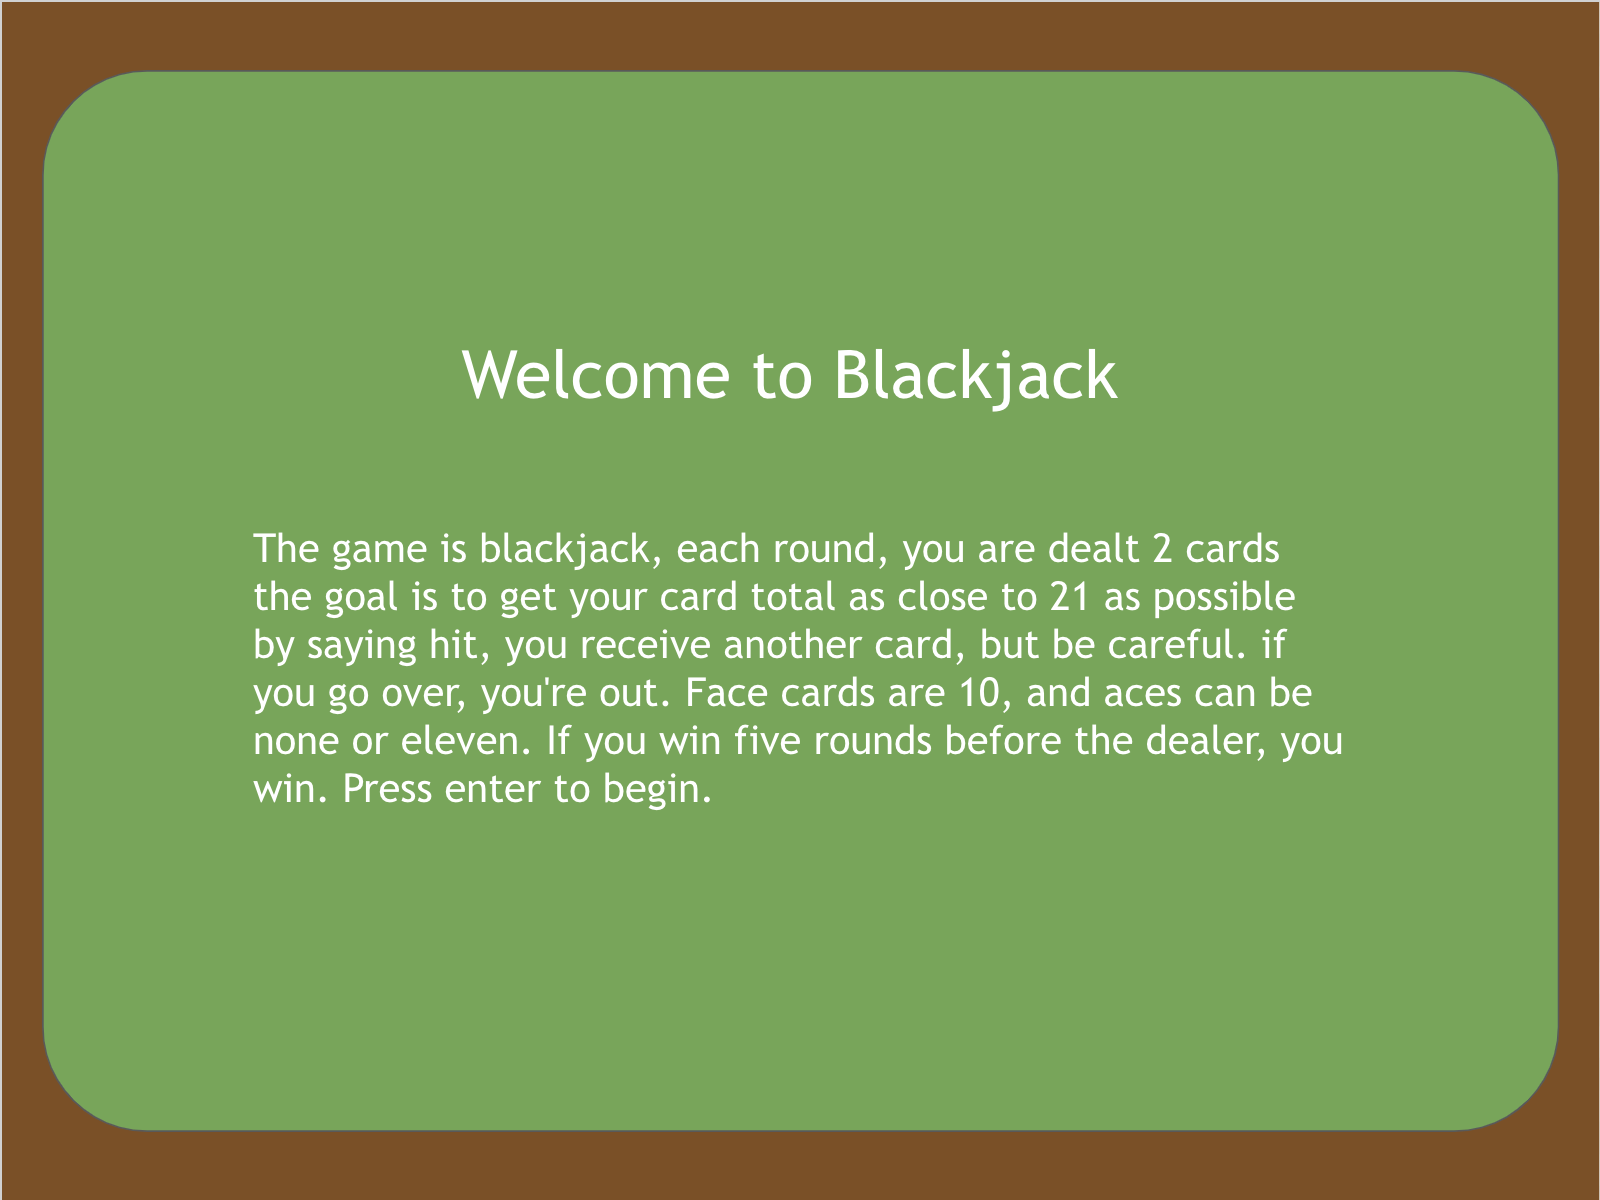
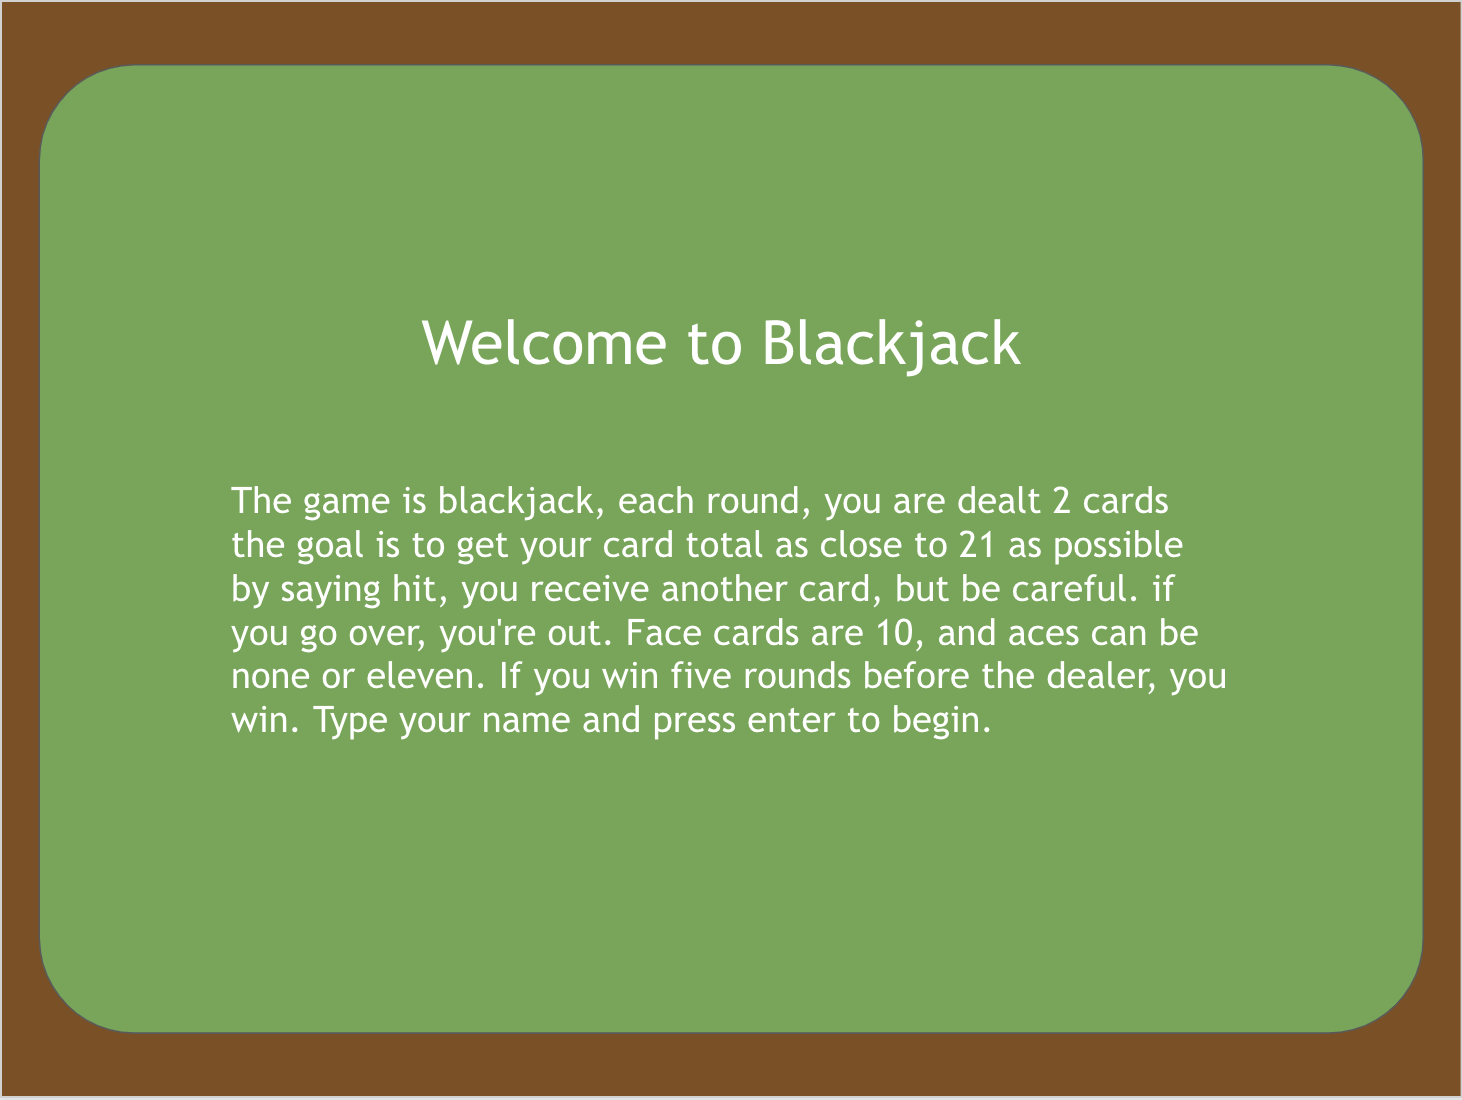
Problem with the designation of card numbers.

diff --git a/src/GameView.java b/src/GameView.java
@@ -3,43 +3,51 @@ import java.awt.*;
 import java.util.ArrayList;
 
 public class GameView extends JFrame{
-    private ArrayList<Card> playerCards;
-    private Image[] cardImages;
-    private Card dealerCard;
     private Game game;
-
-
+    private Image[] cardImages;
+    private Image background;
+    private boolean showInstructions;
     private static final int    WINDOW_WIDTH = 800,
                                 WINDOW_HEIGHT = 600,
                                 CARD_WIDTH = 50;
 
 
-    public GameView()
+    public GameView(Game game)
     {
+        this.showInstructions = true;
+        this.game = game;
         cardImages = new Image[53];
-        for (int i = 0; i < 53; i++)
+        for (int i = 0; i < 51; i++)
         {
-            cardImages[i] = new ImageIcon(i + ".png").getImage();
+            cardImages[i] = new ImageIcon("Resources/"+ i + 1 + ".png").getImage();
         }
+        cardImages[52] = new ImageIcon("Resources/back.png").getImage();
+        this.background = new ImageIcon("Resources/Background.png").getImage();
         this.setSize(WINDOW_WIDTH, WINDOW_HEIGHT);
         this.setDefaultCloseOperation(EXIT_ON_CLOSE);
         this.setTitle("Black Jack");
         this.setVisible(true);
     }
 
-    public void paint(Graphics g)
-    {
-        g.setColor(Color.GREEN);
-        g.fillRect(0,0, WINDOW_WIDTH, WINDOW_HEIGHT);
-
+    public void paint(Graphics g) {
+        if (showInstructions) {
+            Image instructions = new ImageIcon("Resources/Instructions.png").getImage();
+            g.drawImage(instructions, -5 , 11, 810, 600, this);
+            this.showInstructions = false;
+        }
+        else {
+            g.drawImage(background, -5, 11, 810, 600,this);
+            drawPlayerCards(g);
+        }
     }
 
-    public void drawPlayerCards(Graphics g)
-    {
-        int startingX = WINDOW_WIDTH - (playerCards.size() * 25);
-        for (int i = 0; i < playerCards.size(); i++)
-        {
-            g.drawImage(cardImages[i], startingX + 50 * i, 650, this);
+
+
+    public void drawPlayerCards(Graphics g) {
+        ArrayList<Card> playerCards = game.getPlayerHand();
+        int startingX = (WINDOW_WIDTH / 2) - (playerCards.size() * 25);
+        for (int i = 0; i < playerCards.size(); i++) {
+            g.drawImage(cardImages[playerCards.get(i).getCardNum()], startingX + 50 * i, 500, 50, 75, this);
         }
     }
 }

diff --git a/src/Game.java b/src/Game.java
@@ -3,32 +3,29 @@
 
 
 import java.util.Scanner;
+import java.util.ArrayList;
 public class Game
 {
     Scanner s = new Scanner(System.in);
     private final Player player;
     private final Deck deck;
-
     private final Player dealer;
-
-
+    private GameView window;
 
     //Establishes a new game
     public Game()
     {
+        this.window = new GameView(this);
         System.out.println("Input your name: ");
         player = new Player(s.nextLine());
         deck = new Deck();
         dealer = new Player("dealer");
-        GameView window = new GameView();
-
     }
 
 
     //runs up the 9 rounds of the game and prints the winner
     public void playFullGame()
     {
-        printInstructions();
         while (player.getPoints() < 5 && dealer.getPoints() < 5)
         {
             playGame();
@@ -96,6 +93,11 @@ public class Game
         return false;
     }
 
+    public ArrayList<Card> getPlayerHand()
+    {
+        return player.getHand();
+    }
+
 
     public void initiateRound()
     {
@@ -104,6 +106,7 @@ public class Game
         dealer.reset();
         startHand(player);
         startHand(dealer);
+        window.repaint();
     }
 
     public void startHand(Player p)
@@ -116,8 +119,6 @@ public class Game
     //Prints the user's hand and prompts them for their move
     public boolean playerMove()
     {
-        clearScreen();
-        player.printStatus();
         System.out.println("Enter 1 to hit, 2 to stand: ");
         if (s.nextInt() == 1)
         {
@@ -127,9 +128,11 @@ public class Game
             {
                 //if player busts it prints their score and exits
                 System.out.println("You busted, total: " + player.getTotal());
+                window.repaint();
                 return true;
             }
             System.out.println("New total: " + player.getTotal());
+            window.repaint();
             return false;
         }
         //If the player holds it returns true and exits

diff --git a/src/Deck.java b/src/Deck.java
@@ -3,7 +3,7 @@ import java.util.ArrayList;
 public class Deck {
     private final ArrayList<Card> deck;
     private int cardsLeft;
-    private static final String[] suits = {"Hearts", "Spades", "Diamonds", "Clubs"};
+    private static final String[] suits = {"Spades", "Clubs", "Diamonds", "Hearts"};
     private static final String[] ranks = {"Ace", "Two", "Three", "Four", "Five", "Six", "Seven", "Eight", "Nine", "Ten", "Jack", "Queen", "King"};
     //Constructor for irregular deck
     public Deck(String[] rank, String[] suit, int[] values)
@@ -11,9 +11,9 @@ public class Deck {
         deck = new ArrayList<Card>();
         cardsLeft = rank.length;
         int card = 1;
-        for (String s : suits)
+        for (int j = 0; j < rank.length; j++)
         {
-            for (int j = 0; j < rank.length; j++)
+            for (String s : suits)
             {
                 deck.add(new Card(s, rank[j], values[j], card));
                 card++;
